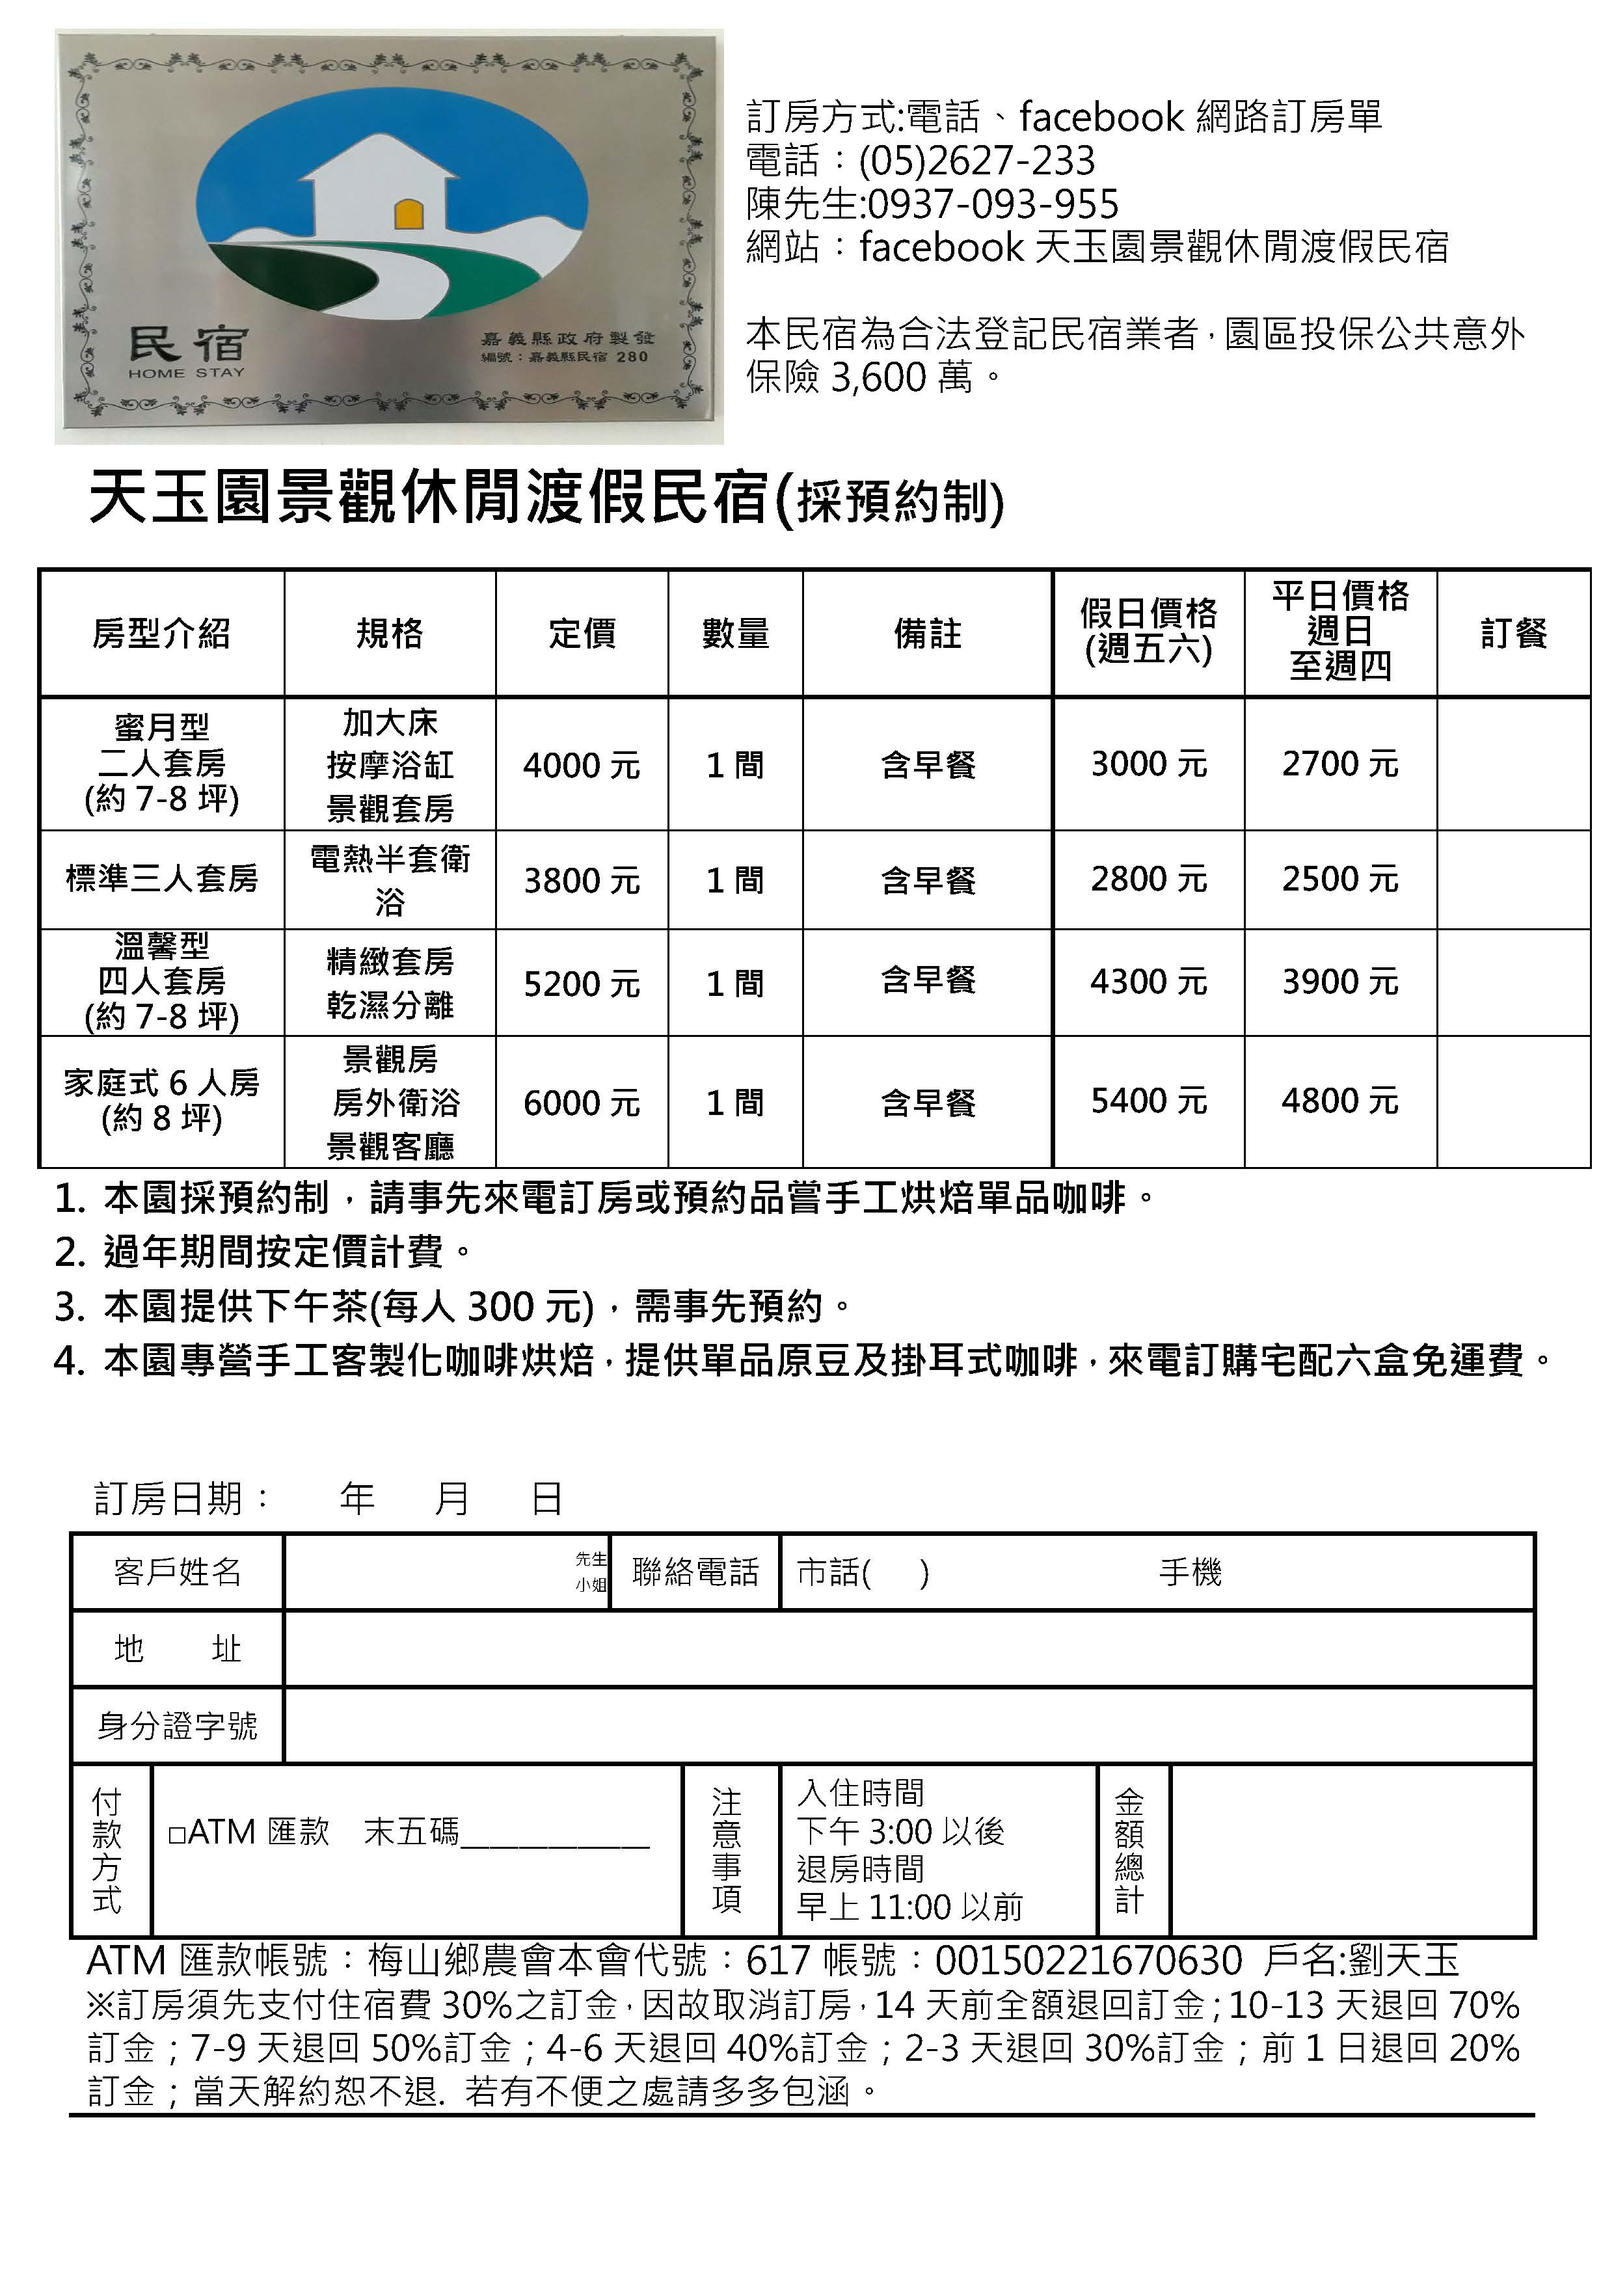
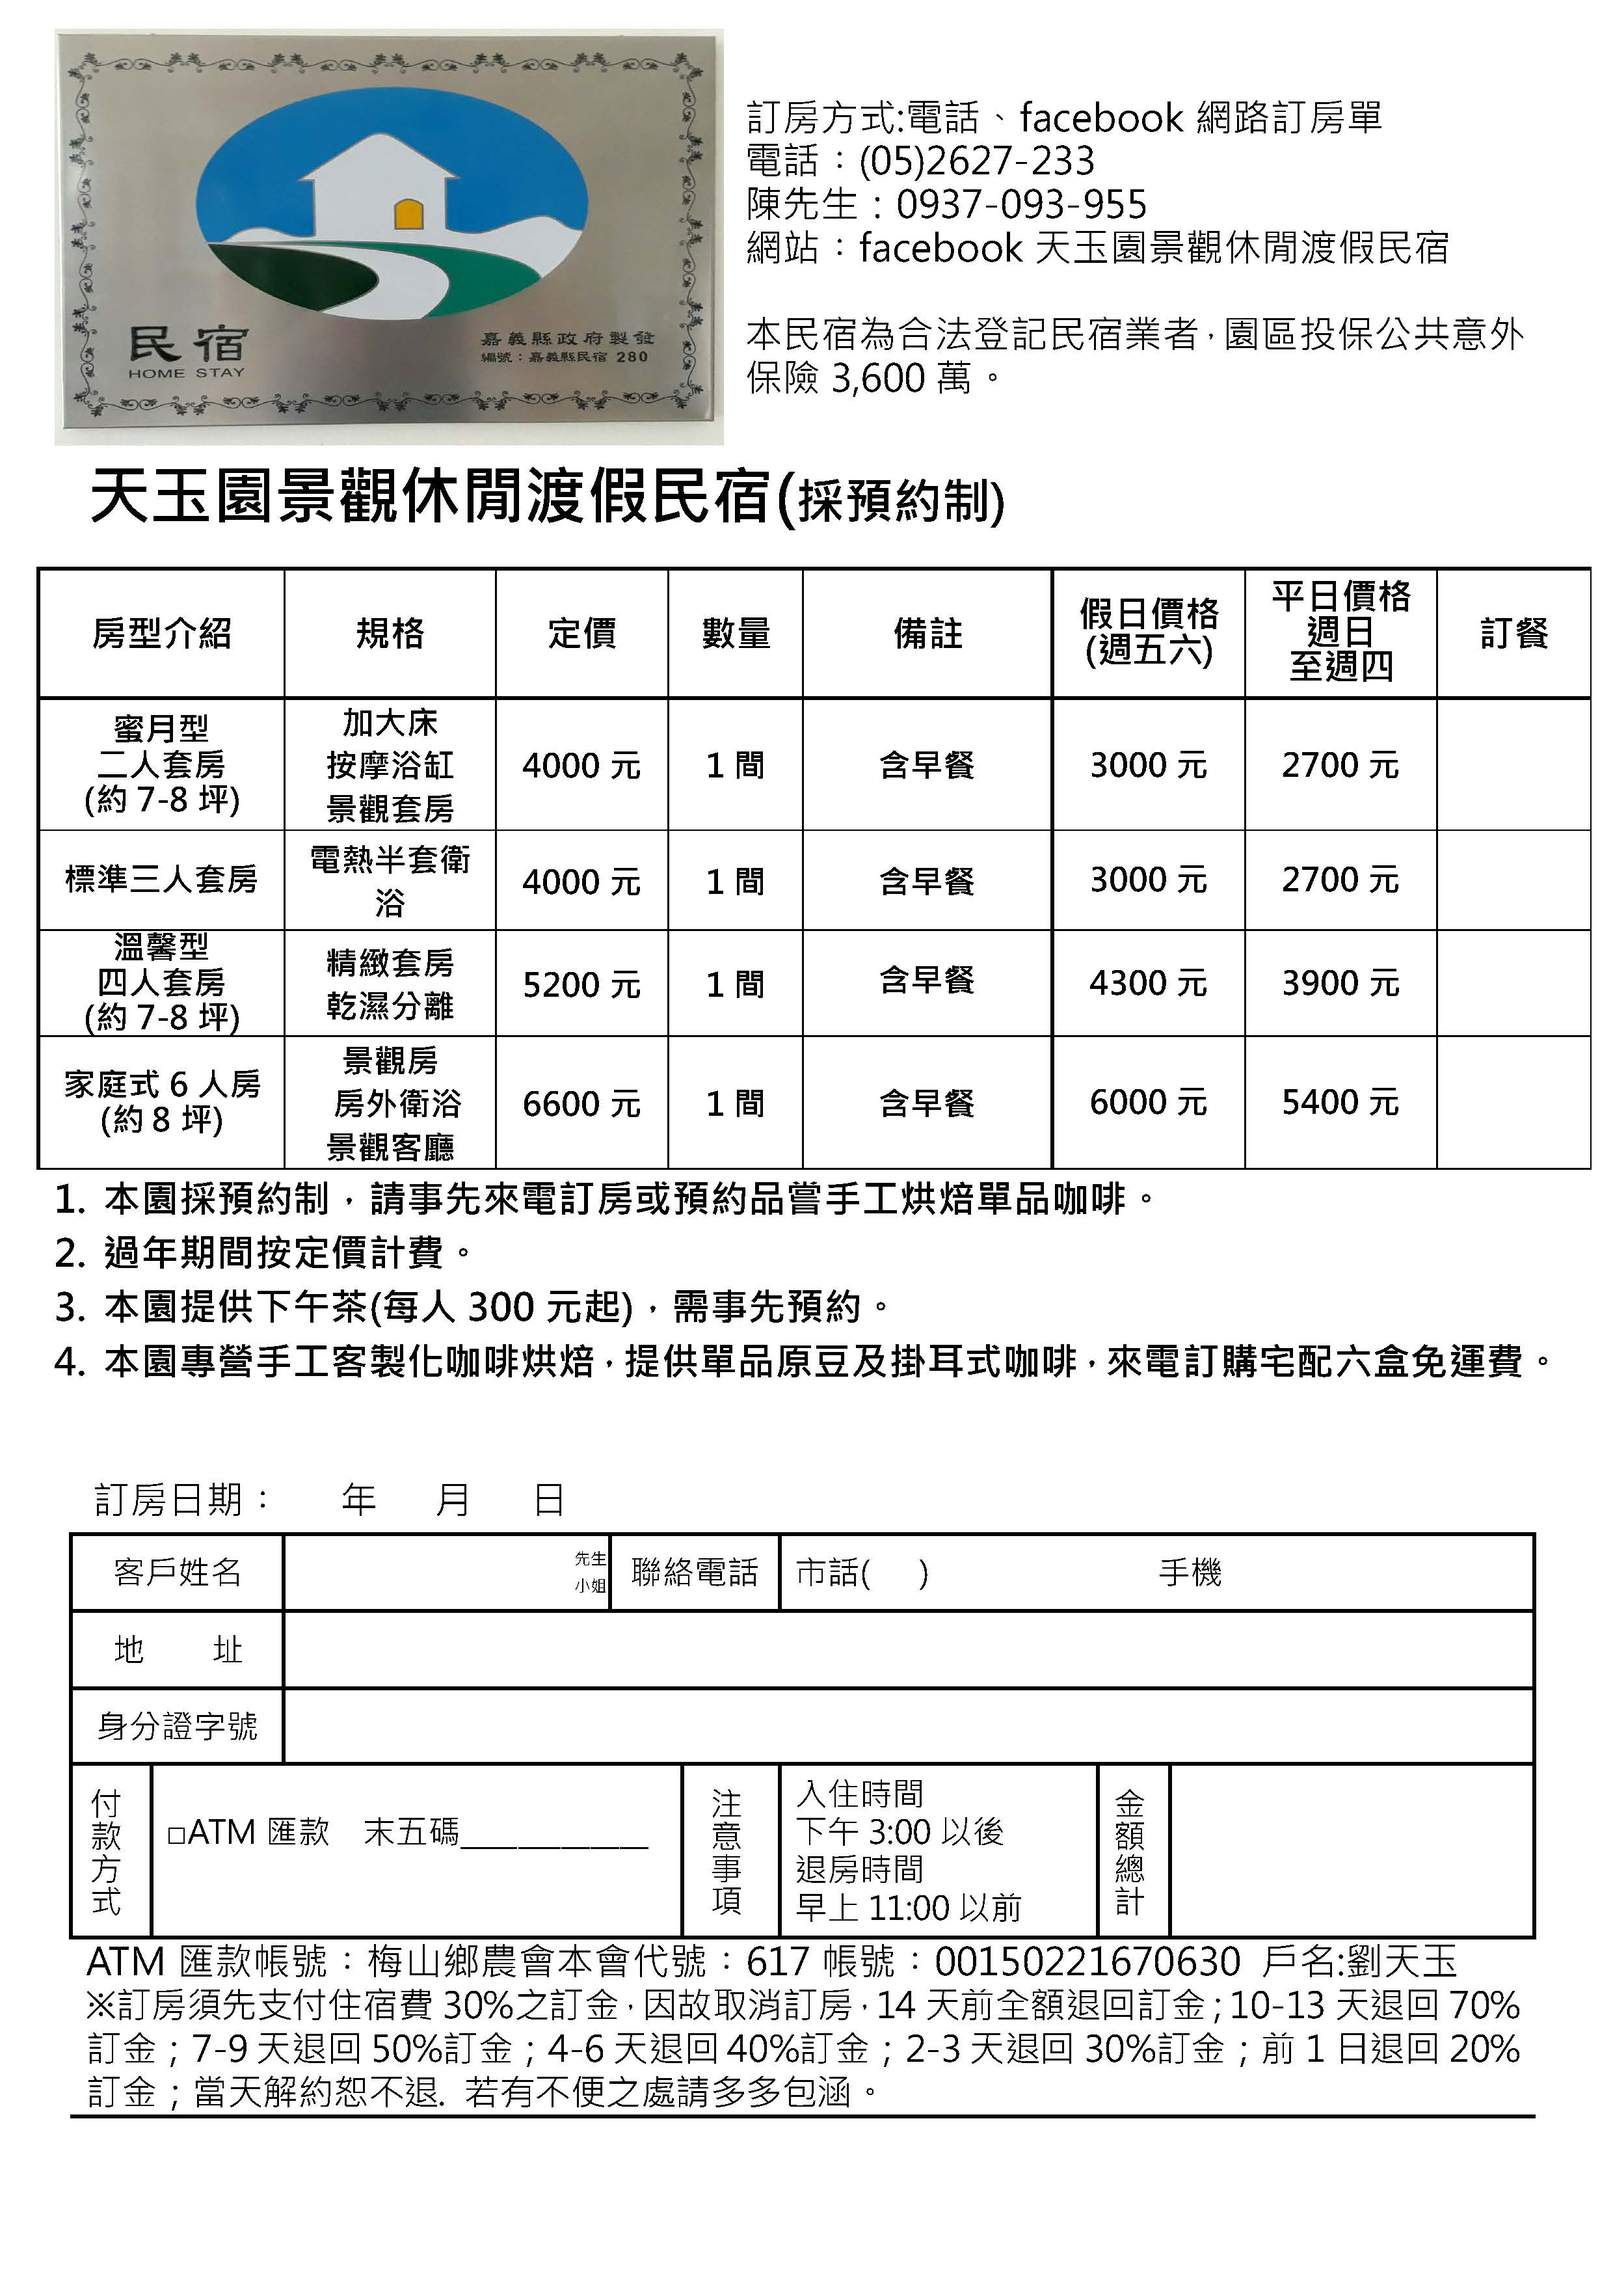
修改房價

diff --git a/public/js/app.js b/public/js/app.js
@@ -2061,7 +2061,7 @@ module.exports = {
 /***/ ((module) => {
 
 "use strict";
-module.exports = JSON.parse('{"_args":[["axios@0.21.4","C:\\\\Users\\\\yaya\\\\Documents\\\\GitHub\\\\tyy-2"]],"_development":true,"_from":"axios@0.21.4","_id":"axios@0.21.4","_inBundle":false,"_integrity":"sha512-ut5vewkiu8jjGBdqpM44XxjuCjq9LAKeHVmoVfHVzy8eHgxxq8SbAVQNovDA8mVi05kP0Ea/n/UzcSHcTJQfNg==","_location":"/axios","_phantomChildren":{},"_requested":{"type":"version","registry":true,"raw":"axios@0.21.4","name":"axios","escapedName":"axios","rawSpec":"0.21.4","saveSpec":null,"fetchSpec":"0.21.4"},"_requiredBy":["#DEV:/"],"_resolved":"https://registry.npmjs.org/axios/-/axios-0.21.4.tgz","_spec":"0.21.4","_where":"C:\\\\Users\\\\yaya\\\\Documents\\\\GitHub\\\\tyy-2","author":{"name":"Matt Zabriskie"},"browser":{"./lib/adapters/http.js":"./lib/adapters/xhr.js"},"bugs":{"url":"https://github.com/axios/axios/issues"},"bundlesize":[{"path":"./dist/axios.min.js","threshold":"5kB"}],"dependencies":{"follow-redirects":"^1.14.0"},"description":"Promise based HTTP client for the browser and node.js","devDependencies":{"coveralls":"^3.0.0","es6-promise":"^4.2.4","grunt":"^1.3.0","grunt-banner":"^0.6.0","grunt-cli":"^1.2.0","grunt-contrib-clean":"^1.1.0","grunt-contrib-watch":"^1.0.0","grunt-eslint":"^23.0.0","grunt-karma":"^4.0.0","grunt-mocha-test":"^0.13.3","grunt-ts":"^6.0.0-beta.19","grunt-webpack":"^4.0.2","istanbul-instrumenter-loader":"^1.0.0","jasmine-core":"^2.4.1","karma":"^6.3.2","karma-chrome-launcher":"^3.1.0","karma-firefox-launcher":"^2.1.0","karma-jasmine":"^1.1.1","karma-jasmine-ajax":"^0.1.13","karma-safari-launcher":"^1.0.0","karma-sauce-launcher":"^4.3.6","karma-sinon":"^1.0.5","karma-sourcemap-loader":"^0.3.8","karma-webpack":"^4.0.2","load-grunt-tasks":"^3.5.2","minimist":"^1.2.0","mocha":"^8.2.1","sinon":"^4.5.0","terser-webpack-plugin":"^4.2.3","typescript":"^4.0.5","url-search-params":"^0.10.0","webpack":"^4.44.2","webpack-dev-server":"^3.11.0"},"homepage":"https://axios-http.com","jsdelivr":"dist/axios.min.js","keywords":["xhr","http","ajax","promise","node"],"license":"MIT","main":"index.js","name":"axios","repository":{"type":"git","url":"git+https://github.com/axios/axios.git"},"scripts":{"build":"NODE_ENV=production grunt build","coveralls":"cat coverage/lcov.info | ./node_modules/coveralls/bin/coveralls.js","examples":"node ./examples/server.js","fix":"eslint --fix lib/**/*.js","postversion":"git push && git push --tags","preversion":"npm test","start":"node ./sandbox/server.js","test":"grunt test","version":"npm run build && grunt version && git add -A dist && git add CHANGELOG.md bower.json package.json"},"typings":"./index.d.ts","unpkg":"dist/axios.min.js","version":"0.21.4"}');
+module.exports = JSON.parse('{"_from":"axios@0.21.4","_id":"axios@0.21.4","_inBundle":false,"_integrity":"sha512-ut5vewkiu8jjGBdqpM44XxjuCjq9LAKeHVmoVfHVzy8eHgxxq8SbAVQNovDA8mVi05kP0Ea/n/UzcSHcTJQfNg==","_location":"/axios","_phantomChildren":{},"_requested":{"type":"version","registry":true,"raw":"axios@0.21.4","name":"axios","escapedName":"axios","rawSpec":"0.21.4","saveSpec":null,"fetchSpec":"0.21.4"},"_requiredBy":["#DEV:/","#USER"],"_resolved":"https://registry.npmjs.org/axios/-/axios-0.21.4.tgz","_shasum":"c67b90dc0568e5c1cf2b0b858c43ba28e2eda575","_spec":"axios@0.21.4","_where":"C:\\\\Users\\\\steven\\\\Documents\\\\專案開發\\\\tyy-2","author":{"name":"Matt Zabriskie"},"browser":{"./lib/adapters/http.js":"./lib/adapters/xhr.js"},"bugs":{"url":"https://github.com/axios/axios/issues"},"bundleDependencies":false,"bundlesize":[{"path":"./dist/axios.min.js","threshold":"5kB"}],"dependencies":{"follow-redirects":"^1.14.0"},"deprecated":false,"description":"Promise based HTTP client for the browser and node.js","devDependencies":{"coveralls":"^3.0.0","es6-promise":"^4.2.4","grunt":"^1.3.0","grunt-banner":"^0.6.0","grunt-cli":"^1.2.0","grunt-contrib-clean":"^1.1.0","grunt-contrib-watch":"^1.0.0","grunt-eslint":"^23.0.0","grunt-karma":"^4.0.0","grunt-mocha-test":"^0.13.3","grunt-ts":"^6.0.0-beta.19","grunt-webpack":"^4.0.2","istanbul-instrumenter-loader":"^1.0.0","jasmine-core":"^2.4.1","karma":"^6.3.2","karma-chrome-launcher":"^3.1.0","karma-firefox-launcher":"^2.1.0","karma-jasmine":"^1.1.1","karma-jasmine-ajax":"^0.1.13","karma-safari-launcher":"^1.0.0","karma-sauce-launcher":"^4.3.6","karma-sinon":"^1.0.5","karma-sourcemap-loader":"^0.3.8","karma-webpack":"^4.0.2","load-grunt-tasks":"^3.5.2","minimist":"^1.2.0","mocha":"^8.2.1","sinon":"^4.5.0","terser-webpack-plugin":"^4.2.3","typescript":"^4.0.5","url-search-params":"^0.10.0","webpack":"^4.44.2","webpack-dev-server":"^3.11.0"},"homepage":"https://axios-http.com","jsdelivr":"dist/axios.min.js","keywords":["xhr","http","ajax","promise","node"],"license":"MIT","main":"index.js","name":"axios","repository":{"type":"git","url":"git+https://github.com/axios/axios.git"},"scripts":{"build":"NODE_ENV=production grunt build","coveralls":"cat coverage/lcov.info | ./node_modules/coveralls/bin/coveralls.js","examples":"node ./examples/server.js","fix":"eslint --fix lib/**/*.js","postversion":"git push && git push --tags","preversion":"npm test","start":"node ./sandbox/server.js","test":"grunt test","version":"npm run build && grunt version && git add -A dist && git add CHANGELOG.md bower.json package.json"},"typings":"./index.d.ts","unpkg":"dist/axios.min.js","version":"0.21.4"}');
 
 /***/ }),
 

diff --git a/resources/views/index.blade.php b/resources/views/index.blade.php
@@ -731,11 +731,11 @@
                                     </div>
                                 </div>
                                 <p class=" text-center p-4 font-medium price">
-                                    <span>定價:3800元</span>
+                                    <span>定價:4000元</span>
                                     <span class="border-r border-gray-400 mx-1"></span>
-                                    <span>假日:2800元</span>
+                                    <span>假日:3000元</span>
                                     <span class="border-r border-gray-400 mx-1"></span>
-                                    <span>平日:2500元</span>
+                                    <span>平日:2700元</span>
                                 </p>
                             </div>
                             <div class="p-3 bg-white rounded shadow">
@@ -828,11 +828,11 @@
                                     </div>
                                 </div>
                                 <p class=" text-center p-4 font-medium price">
-                                    <span>定價:6000元</span>
+                                    <span>定價:6600元</span>
                                     <span class="border-r border-gray-400 mx-1"></span>
-                                    <span>假日:5400元</span>
+                                    <span>假日:6000元</span>
                                     <span class="border-r border-gray-400 mx-1"></span>
-                                    <span>平日:4800元</span>
+                                    <span>平日:5400元</span>
                                 </p>
                             </div>
                         </div>
@@ -860,13 +860,13 @@
                                 3.過年期間按定價計費
                             </p>
                             <p class="">
-                                4.本園提供下午茶(每人300元)，需事先預約
+                                4.本園提供下午茶(每人300元起)，需事先預約
                             </p>
                             <p class="">
                                 5.本園專營手工客製化咖啡烘焙，提供單品原豆及掛耳式咖啡，來電訂購宅配六盒免運費
                             </p>
                             <p class="">
-                                6.收費方式：現金、刷卡、國旅卡、國旅券、五倍券
+                                6.收費方式：現金、刷卡、國旅卡
                             </p>
                             <p class="font-semibold">
                                 ※訂房需先支付住宿費30%之訂金
